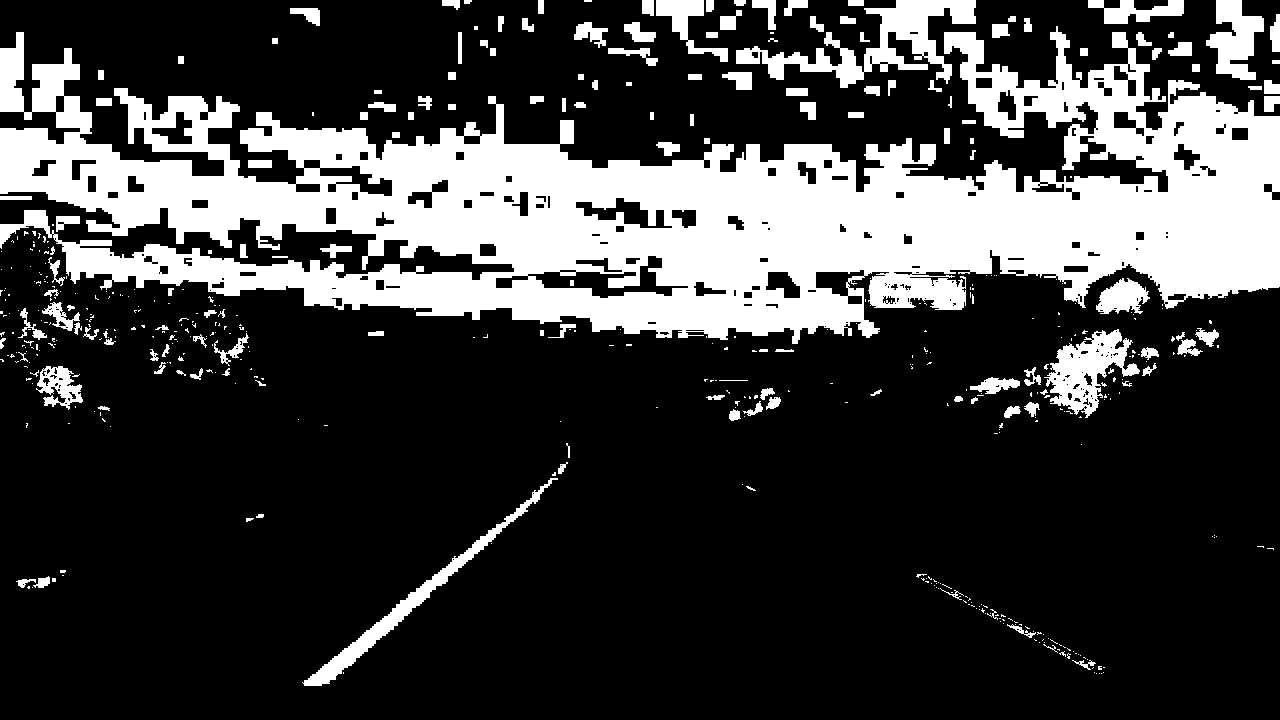
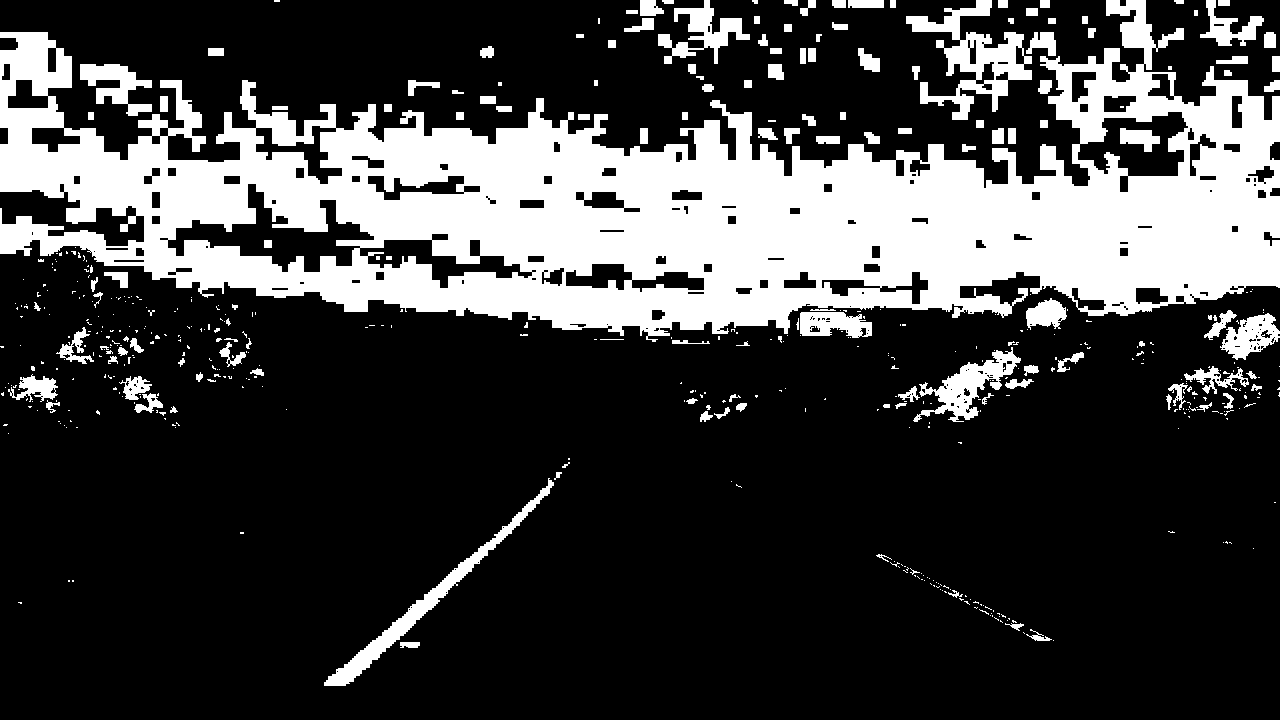
"crop image faster processing"

diff --git a/main.py b/main.py
@@ -56,14 +56,32 @@ if REPORT:
 
 
 
+
+def crop_image(img):
+    x_crop = [250,1180]
+    y_crop = [440,665]
+    out = img[y_crop[0]:y_crop[1],x_crop[0]:x_crop[1]]
+    return out
+
+
+
 def flat_perspective(img):
     #points taken manualy in paint
-    img_size = (400, 800)
+    img_size = (600, 800)
     offset = {'x':80,'y':10}
-    p1 = [610,440]
-    p4 = [373,623]
-    p3 = [1000,623]
-    p2 = [680,444]
+    #p1 = [610,440]
+    '''Uncrop version '''
+    # p1 = [540,490]
+    # p4 = [373,623]
+    # p3 = [1000,623]
+    # p2 = [775,490]
+    #p2 = [680,444]
+    '''CROPPED'''
+    p1 = [310,35]
+    p4 = [75,205]
+    p3 = [750,205]
+    p2 = [490,35]
+    #p2 = [680,444]
 
 
     src = np.float32([p1,p2,p3,p4])
@@ -192,6 +210,14 @@ def mag_thresh(img, sobel_kernel=3, mag_thresh=(0, 255)):
 
     # Return the binary image
     return binary_output
+#report flatening images
+
+if REPORT:
+    img = cv2.imread('report/sample3.png')
+    crop = crop_image(img)
+    cv2.imwrite("report/crop_sample3.png", crop)
+
+
 
 #report flatening images
 if REPORT:
@@ -267,6 +293,7 @@ def find_window_centroids(image, window_width, window_height, margin):
         l_center = np.argmax(conv_signal[l_min_index:l_max_index]) + l_min_index - offset
         # Find the best right centroid by using past right center as a reference
         r_min_index = int(max(r_center + offset - margin, 0))
+
         r_max_index = int(min(r_center + offset + margin, warped.shape[1]))
         r_center = np.argmax(conv_signal[r_min_index:r_max_index]) + r_min_index - offset
         # Add what we found for that layer
@@ -280,16 +307,16 @@ def find_window_centroids(image, window_width, window_height, margin):
 def find_line_peaks(img):
     warped = img
 
-    window_width = 30
+    window_width = 50
     window_height = 50  # Break image into 9 vertical layers since image height is 720
-    margin = 50  # How much to slide left and right for searching
+    margin = 10  # How much to slide left and right for searching
 
     window_centroids = find_window_centroids(warped, window_width, window_height, margin)
 
     # If we found any window centers
     if len(window_centroids) > 0:
 
-        # Points used to draw all the left and right windows
+        # Points used to draw all the left and right windowsq
         l_points = np.zeros_like(warped)
         r_points = np.zeros_like(warped)
 
@@ -310,7 +337,7 @@ def find_line_peaks(img):
         left_line = np.array(cv2.merge((l_points, zero_channel, zero_channel)), np.uint8)  # make window pixels green
         warpage = np.array(cv2.merge((warped, warped, warped)),
                            np.uint8)  # making the original road pixels 3 color channels
-        output = cv2.addWeighted(right_line, 1, left_line, 0.7, 120)  # overlay the orignal road image with window results
+        output = cv2.addWeighted(right_line, 1, left_line, 1, 0)  # overlay the orignal road image with window results
 
     # If no window centers found, just display orginal road image
     else:
@@ -330,22 +357,25 @@ def draw_lines(img, lines):
 
 
 def image_preprocesor(img):
+    clahe = cv2.createCLAHE(clipLimit=2.0, tileGridSize=(8, 8))
     out = img
     #1 Fix camera disortion
     #out = cv2.undistort(img, camear_calibration['mtx'], camear_calibration['dist'], None, camear_calibration['mtx'])
     #out = cv2.cvtColor(img, cv2.COLOR_RGB2HLS)
     #out = cv2.cvtColor(img, cv2.COLOR_BGR2GRAY)
     #
+
     out2 = s_treshording(img)
+
     #out = mag_thresh(out, sobel_kernel=3, mag_thresh=(30, 100))
     #out = dir_threshold(out, sobel_kernel=5, thresh=(0.5, 1.2))
     #out = hls_magnitude(out)
     out1 = mag_thresh(out, sobel_kernel=5, mag_thresh=(50, 100))
     out = cv2.add(out1, out2)
-    out = dir_threshold(out, sobel_kernel=3, thresh=(0.7, 1.1))
-    # kernel = np.ones((2, 3), np.uint8)
+    #out = dir_threshold(out, sobel_kernel=3, thresh=(0.7, 1.1))
+    kernel = np.ones((3, 3), np.uint8)
     #
-    # out = cv2.dilate(out, kernel, iterations=1)
+    out = cv2.dilate(out, kernel, iterations=1)
     # kernel = np.ones((3, 3), np.uint8)
     # out = cv2.erode(out, kernel, iterations=3)
     #
@@ -354,6 +384,10 @@ def image_preprocesor(img):
     #out = cv2.cvtColor(out, cv2.COLOR_RGB2GRAY)
     #ret, out = cv2.threshold(out, 0, 255, cv2.THRESH_OTSU)
     #out = cv2.adaptiveThreshold(out, 255, cv2.ADAPTIVE_THRESH_GAUSSIAN_C, cv2.THRESH_BINARY, 25, -15)
+    #out = cv2.cvtColor(img, cv2.COLOR_BGR2GRAY)
+    out3 = clahe.apply(out)
+    out = out & out3
+    out = dir_threshold(out, sobel_kernel=5, thresh=(0.5, 1.2))
 
     return out
 
@@ -370,6 +404,8 @@ while(cap.isOpened()):
     in_img = out
     if ret==True:
 
+        crop = crop_image(out)
+        out = crop
 
         # write the flipped frame
         #out.write(frame)
@@ -378,10 +414,14 @@ while(cap.isOpened()):
         # out = dir_threshold(img)
 
         out = image_preprocesor(out)
-        cv2.imshow('frame', out)
+
+        cv2.imshow('frame2', crop)
         out = flat_perspective(out)
+        flat = out
+        cv2.imshow('frame', flat)
         out = find_line_peaks(out)
-        cv2.imshow('lines', out)
+        #out = cv2.addWeighted(out, 0.5, flat, 0.7,0)
+        cv2.imshow('lines', out )
 
 
         cv2.imshow('xxx',in_img)
